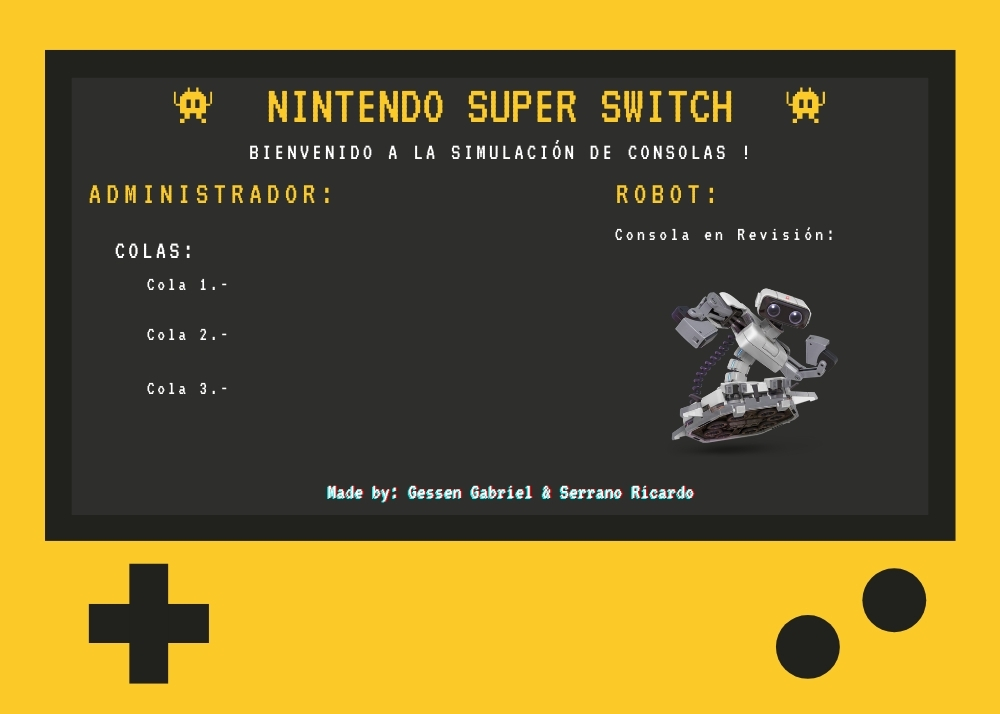
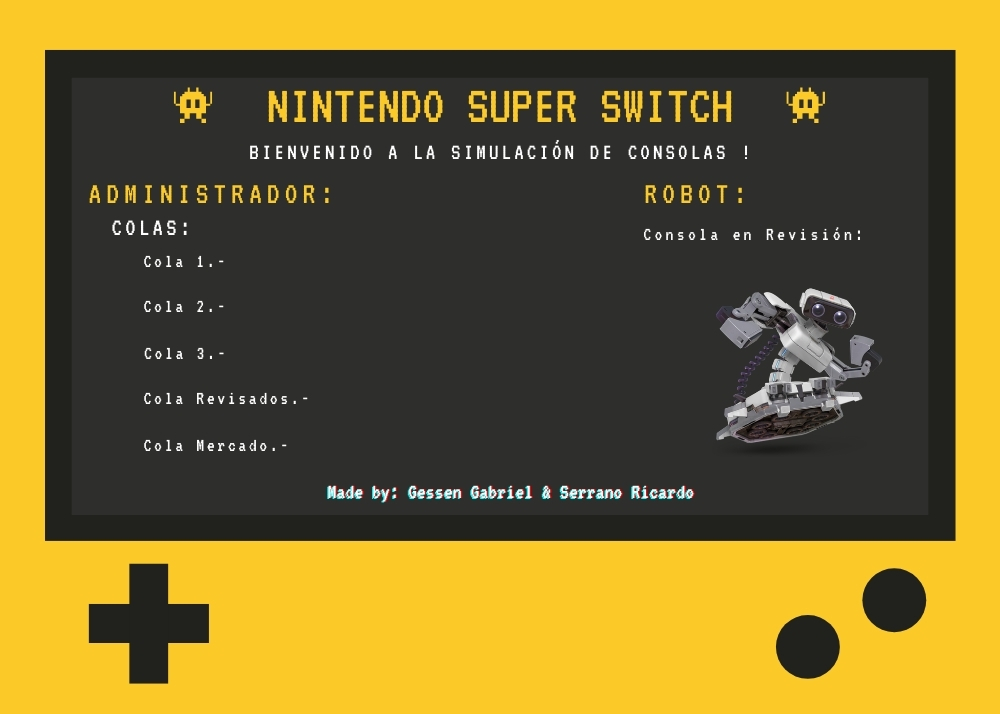
:rocket: Arregladas las colas en interfaz

diff --git a/Super_Switch/src/Visual/Interfaz.java b/Super_Switch/src/Visual/Interfaz.java
@@ -39,6 +39,7 @@ public class Interfaz extends javax.swing.JFrame {
         colaUno = new javax.swing.JLabel();
         colaDos = new javax.swing.JLabel();
         colaTres = new javax.swing.JLabel();
+        colaMercado = new javax.swing.JLabel();
         colaRevisados = new javax.swing.JLabel();
         labelBackg = new javax.swing.JLabel();
 
@@ -64,24 +65,34 @@ public class Interfaz extends javax.swing.JFrame {
         jPanelApp.add(btnSalir, new org.netbeans.lib.awtextra.AbsoluteConstraints(940, 0, 60, 30));
 
         robRevisa.setBackground(new java.awt.Color(255, 255, 255));
-        robRevisa.setForeground(new java.awt.Color(255, 255, 255));
-        jPanelApp.add(robRevisa, new org.netbeans.lib.awtextra.AbsoluteConstraints(840, 220, 40, 30));
+        robRevisa.setFont(new java.awt.Font("MingLiU-ExtB", 1, 14)); // NOI18N
+        robRevisa.setForeground(new java.awt.Color(252, 217, 76));
+        jPanelApp.add(robRevisa, new org.netbeans.lib.awtextra.AbsoluteConstraints(880, 220, 40, 30));
 
         colaUno.setBackground(new java.awt.Color(255, 255, 255));
-        colaUno.setForeground(new java.awt.Color(255, 255, 255));
-        jPanelApp.add(colaUno, new org.netbeans.lib.awtextra.AbsoluteConstraints(240, 270, 370, 30));
+        colaUno.setFont(new java.awt.Font("MingLiU-ExtB", 0, 12)); // NOI18N
+        colaUno.setForeground(new java.awt.Color(252, 217, 76));
+        jPanelApp.add(colaUno, new org.netbeans.lib.awtextra.AbsoluteConstraints(240, 250, 400, 30));
 
         colaDos.setBackground(new java.awt.Color(255, 255, 255));
-        colaDos.setForeground(new java.awt.Color(255, 255, 255));
-        jPanelApp.add(colaDos, new org.netbeans.lib.awtextra.AbsoluteConstraints(240, 320, 370, 30));
+        colaDos.setFont(new java.awt.Font("MingLiU-ExtB", 0, 12)); // NOI18N
+        colaDos.setForeground(new java.awt.Color(252, 217, 76));
+        jPanelApp.add(colaDos, new org.netbeans.lib.awtextra.AbsoluteConstraints(240, 290, 400, 30));
 
         colaTres.setBackground(new java.awt.Color(255, 255, 255));
-        colaTres.setForeground(new java.awt.Color(255, 255, 255));
-        jPanelApp.add(colaTres, new org.netbeans.lib.awtextra.AbsoluteConstraints(240, 380, 370, 30));
+        colaTres.setFont(new java.awt.Font("MingLiU-ExtB", 0, 12)); // NOI18N
+        colaTres.setForeground(new java.awt.Color(252, 217, 76));
+        jPanelApp.add(colaTres, new org.netbeans.lib.awtextra.AbsoluteConstraints(240, 340, 400, 30));
+
+        colaMercado.setBackground(new java.awt.Color(255, 255, 255));
+        colaMercado.setFont(new java.awt.Font("MingLiU-ExtB", 0, 12)); // NOI18N
+        colaMercado.setForeground(new java.awt.Color(252, 217, 76));
+        jPanelApp.add(colaMercado, new org.netbeans.lib.awtextra.AbsoluteConstraints(300, 430, 340, 30));
 
         colaRevisados.setBackground(new java.awt.Color(255, 255, 255));
-        colaRevisados.setForeground(new java.awt.Color(255, 255, 255));
-        jPanelApp.add(colaRevisados, new org.netbeans.lib.awtextra.AbsoluteConstraints(240, 430, 370, 30));
+        colaRevisados.setFont(new java.awt.Font("MingLiU-ExtB", 0, 12)); // NOI18N
+        colaRevisados.setForeground(new java.awt.Color(252, 217, 76));
+        jPanelApp.add(colaRevisados, new org.netbeans.lib.awtextra.AbsoluteConstraints(310, 380, 330, 30));
 
         labelBackg.setIcon(new javax.swing.ImageIcon(getClass().getResource("/Images/Segundo Proyecto Sistemas Operativos.jpg"))); // NOI18N
         jPanelApp.add(labelBackg, new org.netbeans.lib.awtextra.AbsoluteConstraints(0, 0, 1000, 714));
@@ -107,6 +118,7 @@ public class Interfaz extends javax.swing.JFrame {
     // Variables declaration - do not modify//GEN-BEGIN:variables
     private javax.swing.JButton btnSalir;
     public static javax.swing.JLabel colaDos;
+    public static javax.swing.JLabel colaMercado;
     public static javax.swing.JLabel colaRevisados;
     public static javax.swing.JLabel colaTres;
     public static javax.swing.JLabel colaUno;

diff --git a/Super_Switch/src/Logic/Cola.java b/Super_Switch/src/Logic/Cola.java
@@ -64,7 +64,7 @@ public class Cola {
 
         while (recorrido != null) {
             //Mostrar cola sin contador:
-            Cola += "[" + recorrido.informacion.ID + "]--> "; 
+            Cola += "(" + recorrido.informacion.ID + ")--> "; 
             //Mostrar cola con contador:
 //            Cola += "[" + recorrido.informacion.ID + "_|_" + recorrido.informacion.contador + "]--> "; 
             recorrido = recorrido.siguiente;
@@ -75,7 +75,7 @@ public class Cola {
         for (int i = cadena.length - 1; i >= 0; i--) {
             ColaInvertida += " " + cadena[i];
         }
-
+        
 //        JOptionPane.showMessageDialog(null, ColaInvertida);
         Cola = "";
         return ColaInvertida;
